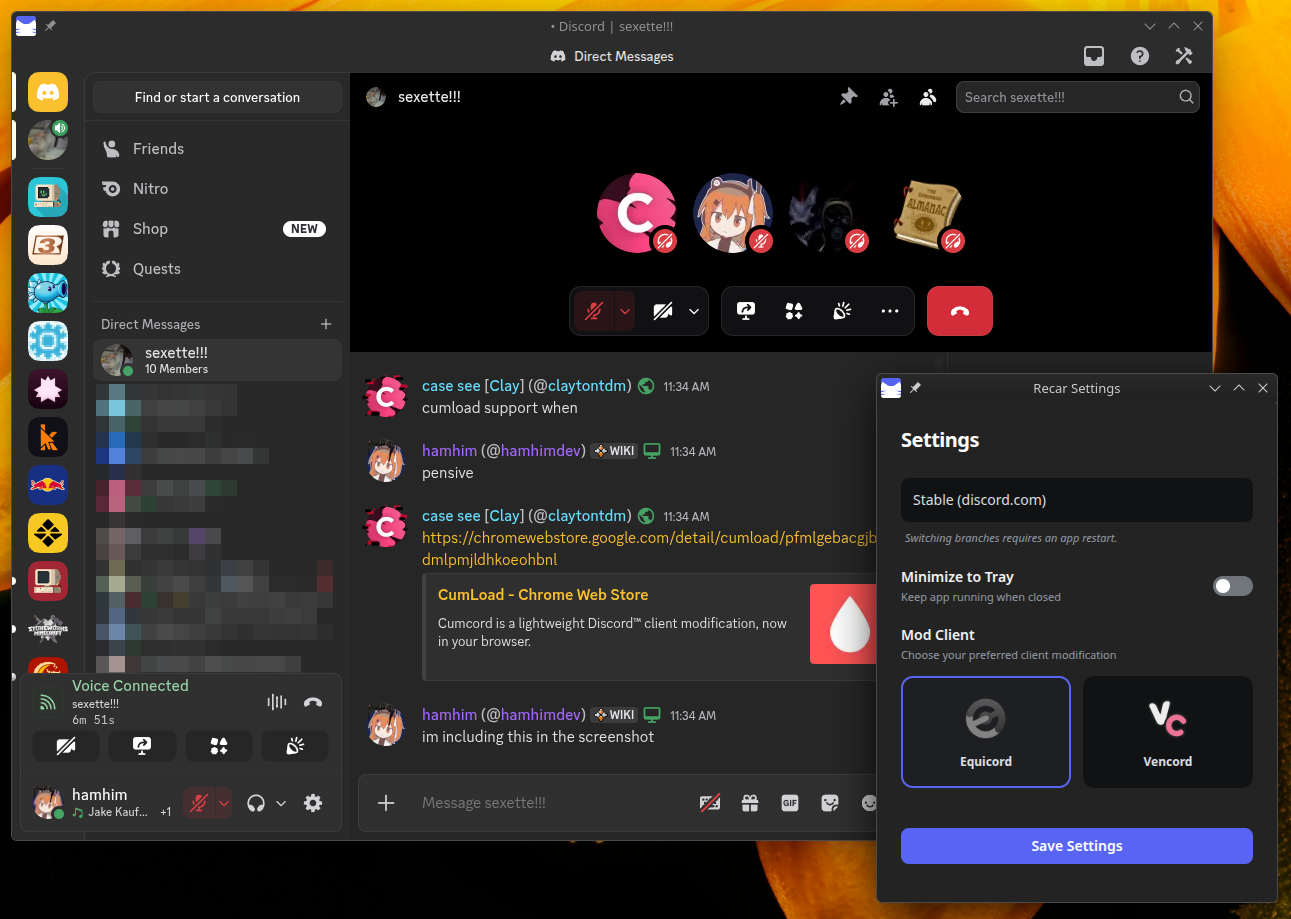
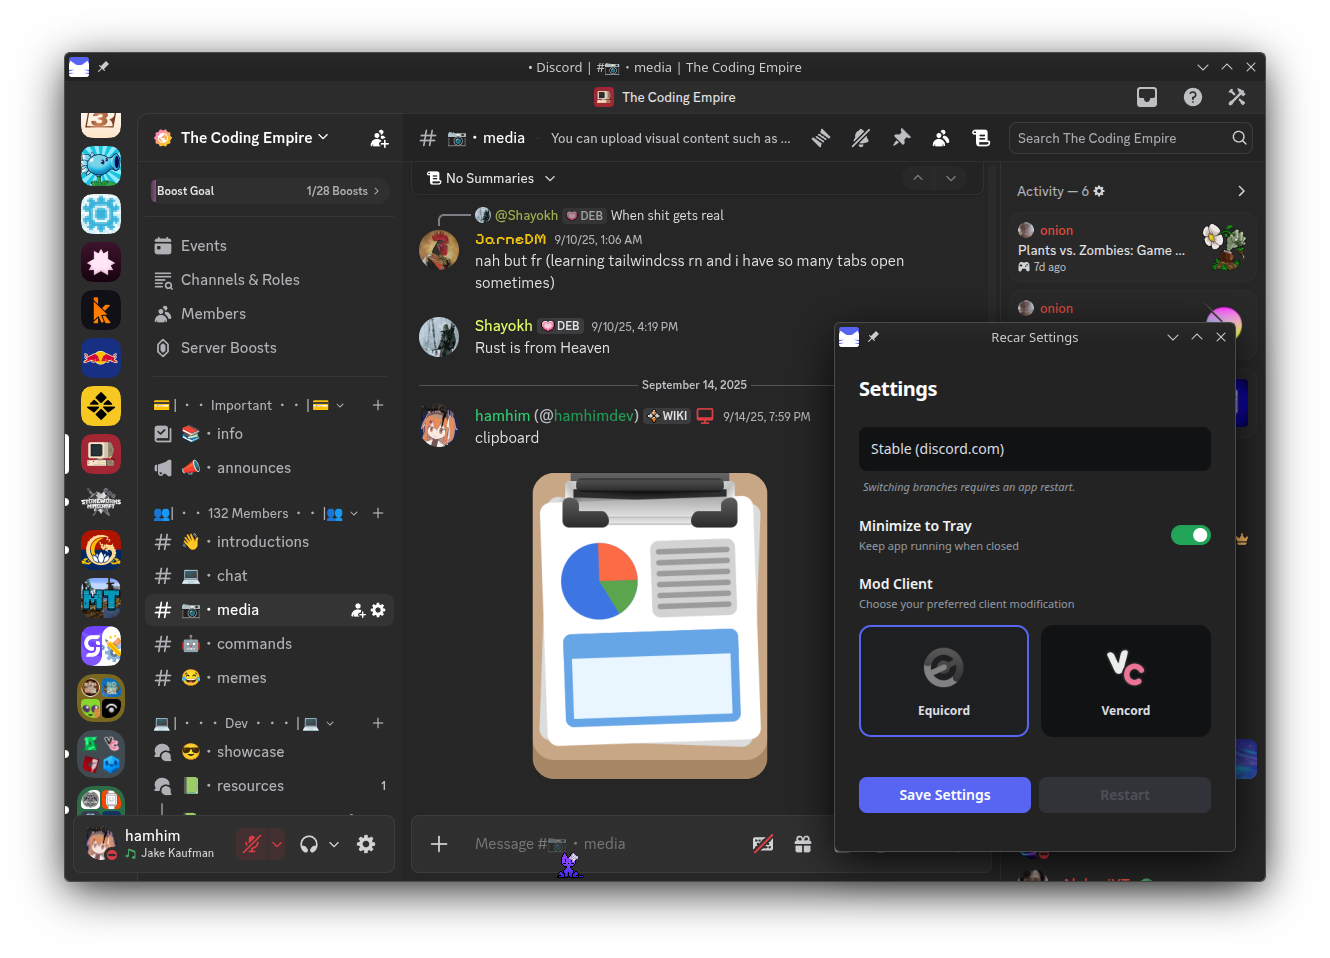
only one settings window allowed + nix flake

diff --git a/src/main.js b/src/main.js
@@ -7,6 +7,7 @@ app.commandLine.appendSwitch('enable-features', 'WebRTCPipeWireCapturer');
 app.userAgentFallback = 'Mozilla/5.0 (X11; Linux x86_64) AppleWebKit/537.36 (KHTML, like Gecko) Chrome/144.0.0.0 Safari/537.36';
 
 let mainWindow;
+let settingsWindow;
 let splashWindow;
 let tray;
 let settings = {
@@ -192,16 +193,22 @@ const createTray = () => {
     ]);
     tray.setToolTip('Recar');
     tray.setContextMenu(contextMenu);
-    tray.on('click', () => mainWindow.show());
+    tray.on('click', () => mainWindow.show() || mainWindow.focus());
 };
 
 const createSettingsWindow = () => {
-    let settingsWindow = new BrowserWindow({
+    if (settingsWindow) {
+        settingsWindow.focus();
+        return;
+    }
+
+    settingsWindow = new BrowserWindow({
         width: 400,
         height: 500,
         title: 'Recar Settings',
         icon: iconPath,
         autoHideMenuBar: true,
+        backgroundColor: '#232323',
         webPreferences: {
             nodeIntegration: false,
             contextIsolation: true,
@@ -213,6 +220,7 @@ const createSettingsWindow = () => {
 
     // Auto-save and quit app on close if it's first launch and they haven't saved
     settingsWindow.on('closed', () => {
+        settingsWindow = null;
         if (isFirstLaunch) {
             app.quit();
         }

diff --git a/README.md b/README.md
@@ -4,7 +4,7 @@
 
 ### A Linux Discord Client
 
-Recar is a Discord client for Linux that is built with Electron and uses the Discord web app as its base. It has client mods such as Vencord built in, Wayland support, and a little bit more.
+Recar is a Discord client for Linux that is built with Electron and uses the Discord web app as its base with client mods built in.  
 https://cutely.strangled.net/recar
 
 <img width=640 src="repository/screenshot.png">
